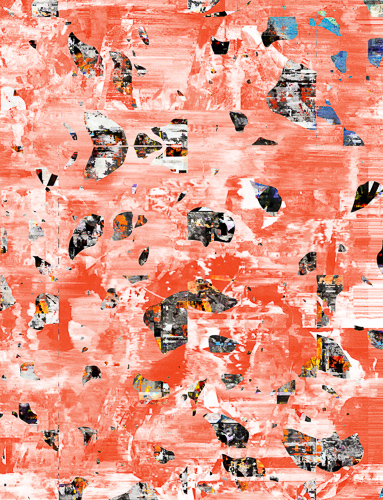
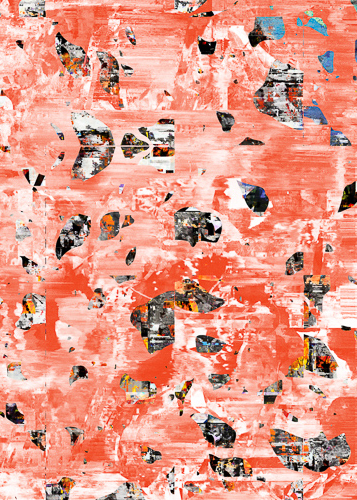
changes for responsive
responsive changes and image width changes.

diff --git a/unit_6/css/style.css b/unit_6/css/style.css
@@ -57,7 +57,7 @@ h3 {
 	letter-spacing: 0em;
 	line-height: 1em;
 	margin: auto;
-	padding-top: 15px;
+	top-padding: 1.5%;
 	text-align: center;
 	text-decoration: none;
 	text-transform: none;
@@ -66,28 +66,6 @@ h3 {
 p {
 	font-family: georgia Serif;
 	padding: 5px 0px;
-}
-
-#menu-toggle {
-  display: none;
-}
-
-#menu {
-  	background-color: #fff;
-	border-left: .5px solid #EFEFEF;
-	color: #000;
-	font-family: "Raleway"; 
-	font-feature-settings: "'liga' 1";
-	font-size: 1.2em;
-	font-style: normal;
-	line-height: 1.33em;
-	display: none;
-	padding: 10px;
-	margin-left: 90%
-}
-
-#menu-toggle:checked + #menu {
-  display: block;
 }
 
 nav { 
@@ -160,7 +138,7 @@ li {
 	margin: .5%;
 	padding: 17px 0px 0px 17px;
     width: 32.3%;
-    height: 430px;
+    max-height: 480px;
     position: relative;
 }
 
@@ -172,7 +150,7 @@ li {
 	max-height: 359px;
 	padding: 17px 5px 15px 5px ;
 	width: 32.33%;
-    height: 390px;
+    height: 480px;
 }
 
 .col1:hover{
@@ -194,13 +172,12 @@ li {
   	}
 
 .butter{
-    height: 340px;
+   max-height: 385px;
  }
 .projectimage{
-   	clip: rect(0px 280px 350px 0px);
     cursor: pointer;
-    height: 375px;
-    position: absolute;
+   	max-height: 375px;
+    width: 95%;
     margin: auto;
   	-moz-filter: saturate(100%);
   	-webkit-filter: saturate(100%);
@@ -230,11 +207,22 @@ li {
 
  .thoughts:hover {
   	box-shadow: -3px 3px 10px rgba(0,0,0,.25);
-	transform: rotate(-.2deg)navitem
+	transform: rotate(-.2deg);
 }
 
 .overlay{
 	position: relative;
+	margin-bottom: 3%
+}
+
+.responsive {
+	display: none;
+}
+
+.responsiveimage{
+    cursor: pointer;
+    width: 100%;
+    margin: auto;
 }
 
 #logo {
@@ -242,9 +230,28 @@ li {
 	width: 94%;
 }
 
-.responisve ~ img, h3, p {
-	display: hide;
+#menu-toggle {
+  display: none;
 }
+
+#menu {
+  	background-color: #fff;
+	border-left: .5px solid #EFEFEF;
+	color: #000;
+	font-family: "Raleway"; 
+	font-feature-settings: "'liga' 1";
+	font-size: 1.2em;
+	font-style: normal;
+	line-height: 1.33em;
+	display: none;
+	padding: 10px;
+	margin-left: 90%
+}
+
+#menu-toggle:checked + #menu {
+  display: block;
+}
+
 #splash {
 	background-color: #000;
 	background-attachment:fixed;
@@ -252,7 +259,6 @@ li {
 	background-size: cover;
 	box-shadow: -3px 3px 10px #A7ABBA;
 	margin: 5px auto 15px;
-	padding: 20px;
 }
 
 #mainwrapper {
@@ -268,16 +274,16 @@ li {
  #projectswrapper {
  	background-color: #fff;
  	box-shadow: -1px 1px 3px #A7ABBA;
- 	margin: 0 auto 15px;
- 	padding: 4.1%;
+ 	margin: 0 auto 1%;
+ 	padding: 2.1%;
  	position: relative;
  }
 
 #researchwrapper {
  	background-color: #fff;
  	box-shadow: -1px 1px 3px #A7ABBA;
- 	margin: 0 auto 15px;
- 	padding: 4.1%;
+ 	margin: 0 auto 1%;
+ 	padding: 2.1%;
  	position: relative;
  	clear: both;
  }
@@ -285,13 +291,43 @@ li {
  #thoughtswrapper{
  	background-color: #fff;
  	box-shadow: -1px 1px 3px #A7ABBA;
- 	margin: 0 auto 15px;
- 	padding: 4.1%;
+ 	margin: 0 auto 1%;
+ 	padding: 2.1%;
  	position: relative;
  }
 
- @media only screen and (max-width:800px) {
+@media only screen and (max-width: 900px) {
 
+	.overlay p {
+		display: none;
+	}
+}
+
+ @media only screen and (max-width:560px) {
+
+.col1 {
+	display: none;
+}
+.responsive {
+	display: block;
+	margin-bottom: 5%
+}
+.overlay {
+	display: none;
+}
+.projectimage {
+	max-height: 100%;
+	width: 100%;
+}
+#projectswrapper{
+	padding: 3%;
+}
+#researchwrapper{
+	padding: 3%;
+}
+#thoughtswrapper{
+	padding: 3%;
+}
  }
 
  

diff --git a/unit_6/index.html b/unit_6/index.html
@@ -14,19 +14,19 @@
 			<section id="splash">
 			<h1>Brighter Days</h1>
 			</section>
-		<nav class="menu"> <label for="menu-toggle"> &#9776 Menu </label>
-		<input type="checkbox" id="menu-toggle" />
-			<ul id="menu">
-				<li><a href="#"> Projects </a></li>
-				<li><a href="#"> Research </a></li>
-				<li><a href="#"> Thoughts </a></li>
-				<li><a href="mailto:ryan.ingebritson@gmail.com">Contact</a></li>
-				<li><a href="#"> About </a></li>
-			</ul>
-		</nav>
 	</header>
 		<div class="clearfix" id="mainwrapper">
 			<div class="clearfix" id="subwrapper">
+				<nav class="menu"> <label for="menu-toggle"> &#9776 Menu </label>
+					<input type="checkbox" id="menu-toggle" />
+					<ul id="menu">
+						<li><a href="#"> Projects </a></li>
+						<li><a href="#"> Research </a></li>
+						<li><a href="#"> Thoughts </a></li>
+						<li><a href="mailto:ryan.ingebritson@gmail.com">Contact</a></li>
+						<li><a href="#"> About </a></li>
+					</ul>
+				</nav>	
 				<section class="clearfix" id="projectswrapper">
 					<h2>Projects</h2>
 					<figure class="col1">
@@ -96,11 +96,9 @@
 						</div>
 					</figure>
 					<figure class="responsive">
-						<div class="butter">	
 							<a href="pages/sites/sites.html">
-							<img src="images/brick_12.jpg" alt="image of brick wall" title="Brick wall" class="projectimage">
+							<img src="images/brick_12.jpg" alt="image of brick wall" title="Brick wall" class="responsiveimage">
 							</a>
-						</div>
 						<div class="overlay">
 							<h3>Sites</h3>   
 							<p> Coming Soon.</p> 
@@ -142,6 +140,15 @@
 							<p> Coming Soon.</p> 
 						</div>
 				 	</figure>
+				 	<figure class="responsive">
+							<a href="pages/sites/sites.html">
+							<img src="images/brick_12.jpg" alt="image of brick wall" title="Brick wall" class="responsiveimage">
+							</a>
+						<div class="overlay">
+							<h3>Sites</h3>   
+							<p> Coming Soon.</p> 
+						</div>
+					</figure>
 				</section>
 				<section class="clearfix" id="thoughtswrapper">
 					<h2>Thoughts</h2>
